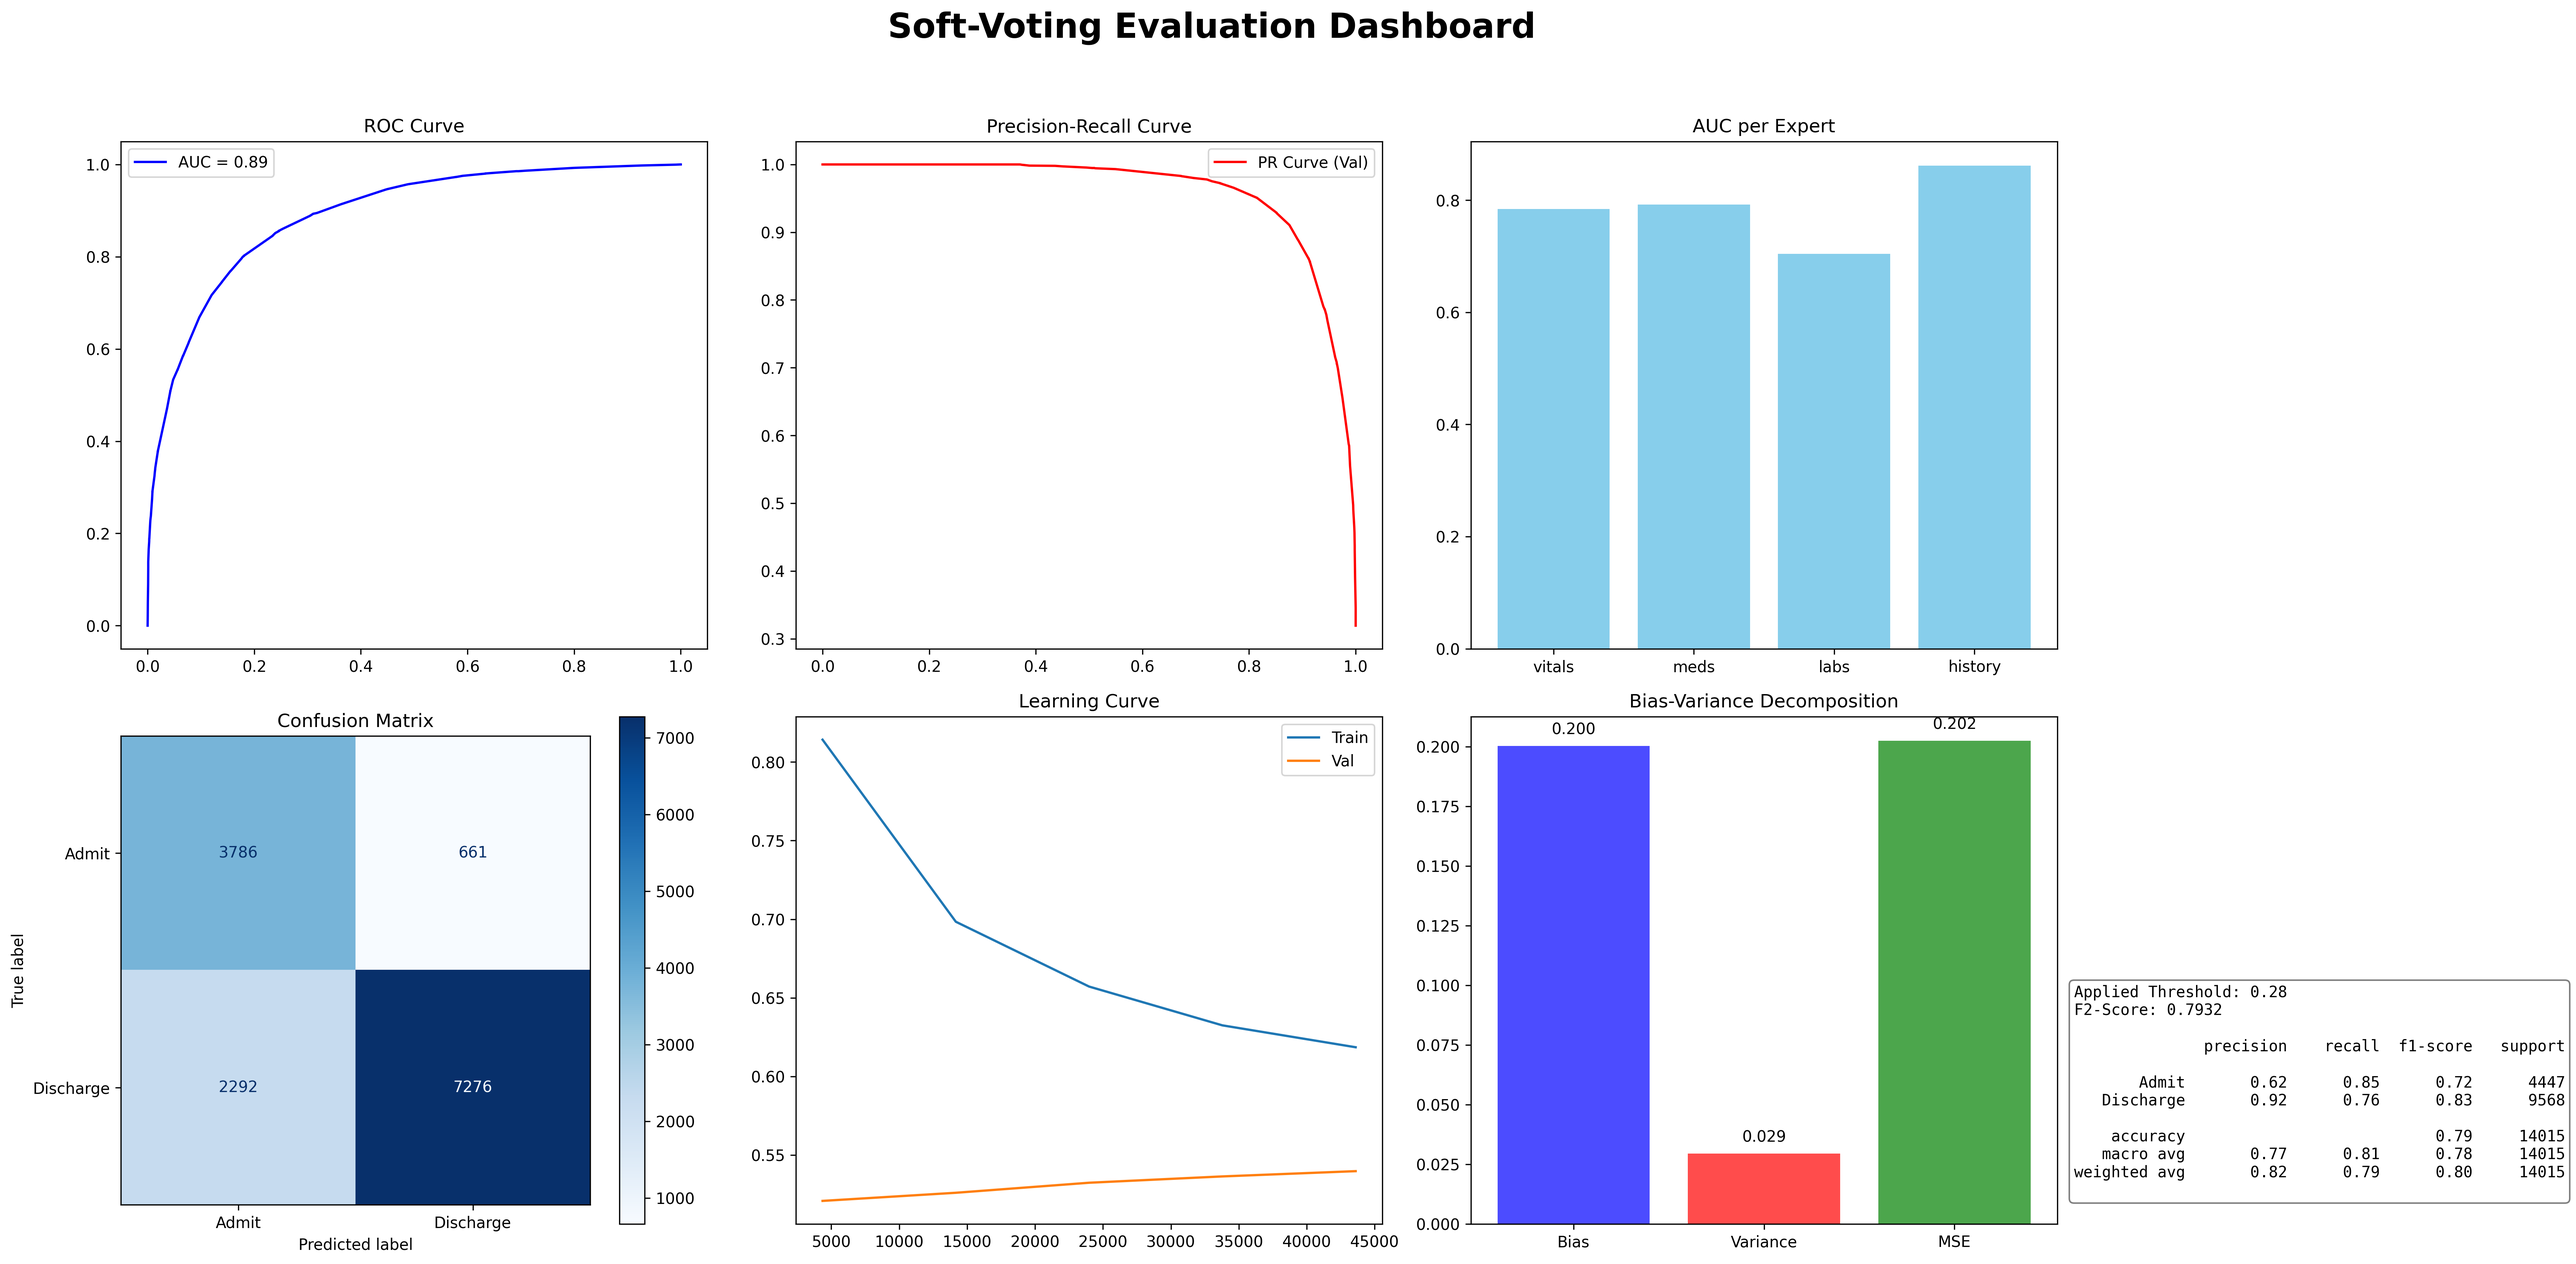
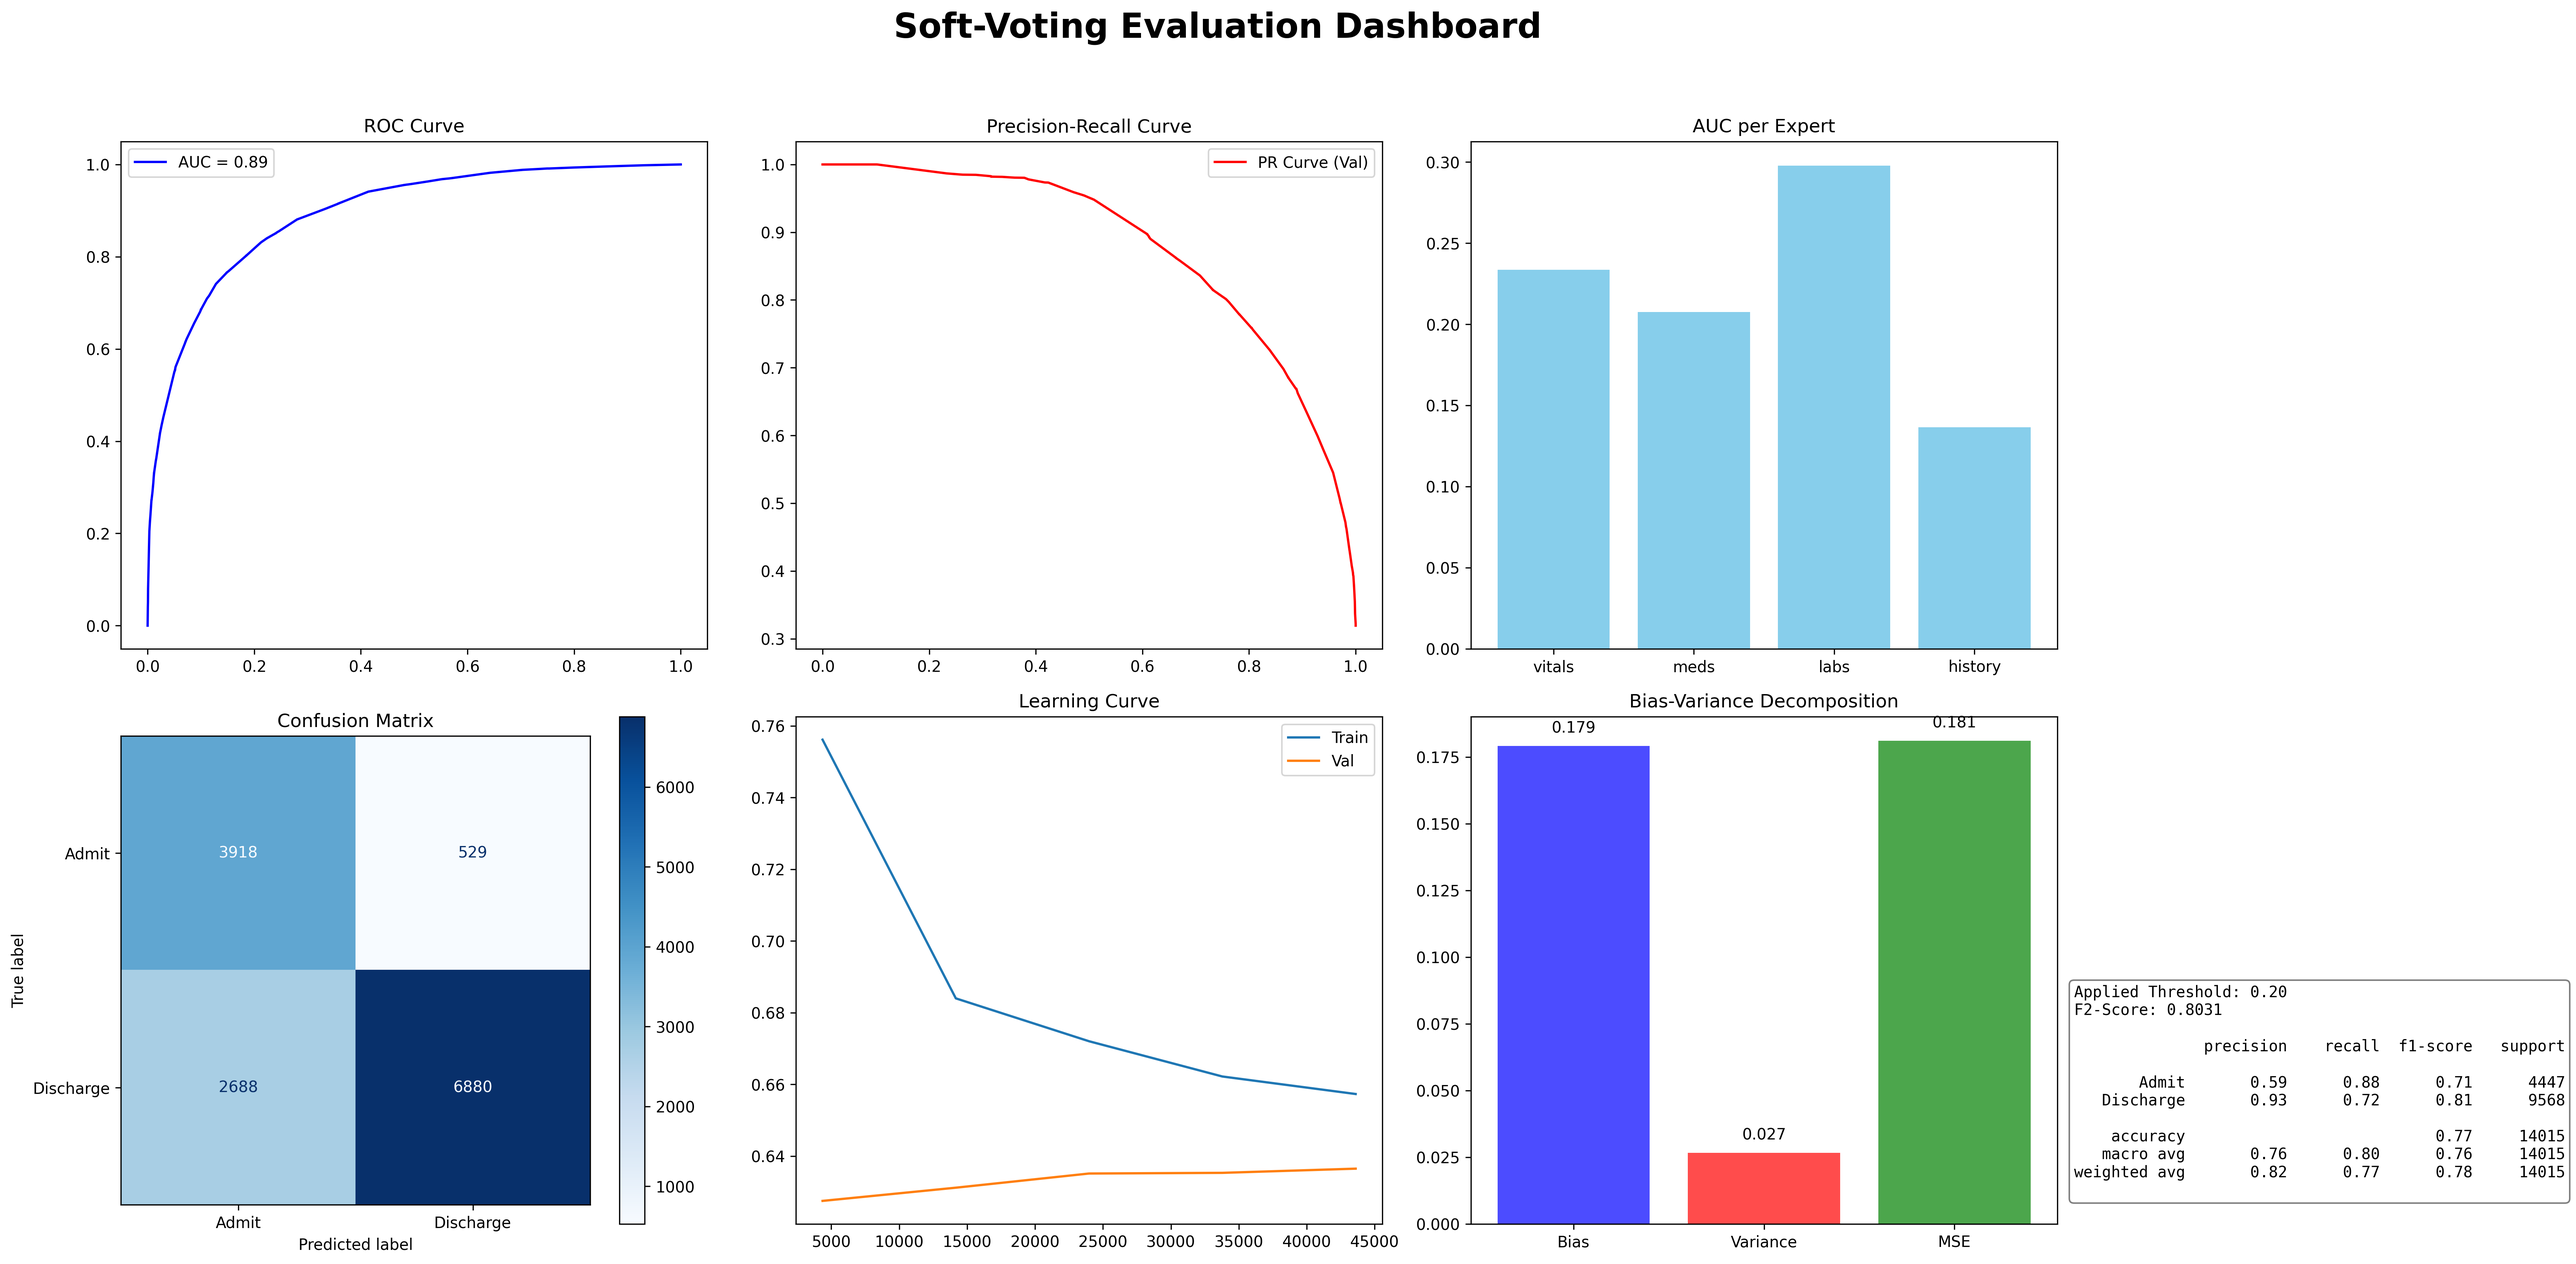
Refactor soft voting classifier pipeline and update Optuna scoring to Average Precision

diff --git a/scripts/triage_soft_voting.py b/scripts/triage_soft_voting.py
@@ -6,7 +6,7 @@ import joblib
 from sklearn.compose import ColumnTransformer
 from sklearn.feature_selection import VarianceThreshold
 from sklearn.ensemble import RandomForestClassifier
-from sklearn.preprocessing import LabelEncoder, StandardScaler
+from sklearn.preprocessing import LabelEncoder, StandardScaler, OneHotEncoder
 from sklearn.linear_model import LogisticRegression
 from sklearn.metrics import precision_score, recall_score
 from sklearn.calibration import CalibratedClassifierCV
@@ -19,7 +19,7 @@ from sklearn.metrics import (roc_curve, auc, precision_recall_curve, fbeta_score
                              ConfusionMatrixDisplay)
 from catboost import CatBoostClassifier
 from mlxtend.evaluate import bias_variance_decomp
-
+from sklearn.impute import SimpleImputer
 
 # I reduced the dataset to 40% of the original size and saved it as 'subset.csv'
 
@@ -31,36 +31,64 @@ df = pd.read_csv('data/subset.csv')
 X = df.drop('disposition', axis=1) 
 y = df['disposition']
 
-
 X_train_raw, X_temp, y_train_raw, y_temp = train_test_split(X, y, test_size=0.30, random_state=42)
 X_val_raw, X_test_raw, y_val_raw, y_test_raw = train_test_split(X_temp, y_temp, test_size=0.50, random_state=42)
 
+
 # Then i transformed my target value into 0/1 where 0 is "Admit" and 1 is "Discharge"
+
 label_enc = LabelEncoder()
 y_train = label_enc.fit_transform(y_train_raw)
 y_val = label_enc.transform(y_val_raw)
 y_test = label_enc.transform(y_test_raw)
 
-# Also i transformed every feature into numbers - Handling categorical columns properly after split
-X_train_numeric = pd.get_dummies(X_train_raw)
-X_val_numeric = pd.get_dummies(X_val_raw)
-X_test_numeric = pd.get_dummies(X_test_raw)
-# Ensure both sets have the same columns after get_dummies
-X_val_numeric = X_val_numeric.reindex(columns=X_train_numeric.columns, fill_value=0)
-X_test_numeric = X_test_numeric.reindex(columns=X_train_numeric.columns, fill_value=0)
+# Setting up the preprocessing pipelines for numeric and categorical features
+numeric_cols = X_train_raw.select_dtypes(include=['int64', 'float64']).columns.tolist()
+categorical_cols = X_train_raw.select_dtypes(include=['object', 'category']).columns.tolist()
 
-# Handled missing values using median imputation based only on training data
-train_median = X_train_numeric.median()
-X_train_imputed = X_train_numeric.fillna(train_median)
-X_val_imputed = X_val_numeric.fillna(train_median)
-X_test_imputed = X_test_numeric.fillna(train_median)
+numeric_transformer = Pipeline(steps=[
+    ('imputer', SimpleImputer(strategy='median'))
+])
+
+categorical_transformer = Pipeline(steps=[
+    ('imputer', SimpleImputer(strategy='most_frequent')), 
+    ('onehot', OneHotEncoder(handle_unknown='ignore', sparse_output=False))
+])
+
+preprocessor = ColumnTransformer(transformers=[
+    ('num', numeric_transformer, numeric_cols),
+    ('cat', categorical_transformer, categorical_cols)
+], verbose_feature_names_out=False)
+
+# Change the output from array to pandas dataframe
+preprocessor.set_output(transform="pandas")
+
+
+preprocessor.fit(X_train_raw)
+
+# Transform the datasets
+X_train_processed_arr = preprocessor.transform(X_train_raw)
+X_val_processed_arr = preprocessor.transform(X_val_raw)
+X_test_processed_arr = preprocessor.transform(X_test_raw)
+
+# Get feature names after transformation
+cat_names = preprocessor.named_transformers_['cat']['onehot'].get_feature_names_out(categorical_cols)
+all_feature_names = numeric_cols + list(cat_names)
+
+# Convert the processed arrays back to DataFrames with appropriate column names
+X_train_processed = pd.DataFrame(X_train_processed_arr, columns=all_feature_names, index=X_train_raw.index)
+X_val_processed = pd.DataFrame(X_val_processed_arr, columns=all_feature_names, index=X_val_raw.index)
+X_test_processed = pd.DataFrame(X_test_processed_arr, columns=all_feature_names, index=X_test_raw.index)
 
 # Feature Selection: Apply Variance Threshold
 selector = VarianceThreshold(threshold=0.01)
-selector.fit(X_train_imputed)
-X_train_sel = pd.DataFrame(selector.transform(X_train_imputed), columns=X_train_numeric.columns[selector.get_support()])
-X_val_sel = pd.DataFrame(selector.transform(X_val_imputed), columns=X_train_numeric.columns[selector.get_support()])
-X_test_sel = pd.DataFrame(selector.transform(X_test_imputed), columns=X_train_numeric.columns[selector.get_support()])
+selector.fit(X_train_processed)
+
+# Get the columns that passed the variance threshold
+selected_cols = X_train_processed.columns[selector.get_support()]
+X_train_sel = X_train_processed[selected_cols]
+X_val_sel = X_val_processed[selected_cols]
+X_test_sel = X_test_processed[selected_cols]
 
 # Performed a Random forest in order to get the top 150 features
 rf_selector = RandomForestClassifier(n_estimators=150, random_state=42, n_jobs=-1)
@@ -86,22 +114,22 @@ meds_idx = get_indices(X_train, meds_top)
 labs_idx = get_indices(X_train, labs_top)
 history_idx = get_indices(X_train, history_top)
 
-
 def custom_admit_scorer(y_true, y_pred):
     prec = precision_score(y_true, y_pred, pos_label=0, zero_division=0)
-    if prec < 0.45:
-        return fbeta_score(y_true, y_pred, beta=2, pos_label=0) * ((prec / 0.45) ** 2)
+    if prec < 0.35:
+        return fbeta_score(y_true, y_pred, beta=2, pos_label=0) * ((prec / 0.35) ** 2)
     return fbeta_score(y_true, y_pred, beta=2, pos_label=0)
 
 f2_scorer = make_scorer(custom_admit_scorer)
 
 # Optuna objective function
 def objective(trial):
-    lgb_lr = trial.suggest_float('lgb_lr', 0.03, 0.08)
-    lgb_reg = trial.suggest_float('lgb_reg', 5.0, 15.0)
-    log_c = trial.suggest_float('log_c', 0.5, 5.0)
-    cat_depth = trial.suggest_int('cat_depth', 5, 9) 
-    cat_lr = trial.suggest_float('cat_lr', 0.03, 0.08)
+    lgb_lr = trial.suggest_float('lgb_lr', 0.01, 0.1,log=True)
+    lgb_reg = trial.suggest_float('lgb_reg', 1.0, 20.0,log=True)
+    log_c = trial.suggest_float('log_c', 0.001, 100.0,log=True)
+    cat_depth = trial.suggest_int('cat_depth', 4, 8) 
+    cat_lr = trial.suggest_float('cat_lr', 0.01, 0.1,log=True)
+    
 
     base_learners_trial = [
         ('vitals_expert', Pipeline([
@@ -122,40 +150,41 @@ def objective(trial):
             ('clf', CatBoostClassifier(iterations=250, verbose=0, learning_rate=cat_lr, depth=cat_depth, thread_count=-1))
         ]))
     ]
-    
+
     Voting_model = VotingClassifier(estimators=base_learners_trial, voting='soft')
-    score = cross_val_score(Voting_model, X_train.values, y_train, cv=3, scoring=f2_scorer, n_jobs=-1)
+    score = cross_val_score(Voting_model, X_train.values, y_train, cv=3, scoring='average_precision', n_jobs=-1)
     return score.mean()
 
 # Bayesian Optimization
 sampler = optuna.samplers.TPESampler(seed=42)
 study = optuna.create_study(direction='maximize', sampler=sampler)
-study.optimize(objective, n_trials=15)
+study.optimize(objective, n_trials=20)
 
 # Final model with best parameters
 bp = study.best_params
 base_learners_final = [
     ('vitals_expert', Pipeline([
         ('sel', ColumnTransformer([('keep', 'passthrough', vitals_idx)], remainder='drop')),
-        ('clf', lgb.LGBMClassifier(n_estimators=200, learning_rate=bp['lgb_lr'], reg_lambda=bp['lgb_reg'], random_state=42, n_jobs=-1, verbosity=-1)) 
+        ('clf', lgb.LGBMClassifier(n_estimators=200, learning_rate=bp['lgb_lr'], reg_lambda=bp['lgb_reg'], class_weight='balanced',random_state=42, n_jobs=-1, verbosity=-1)) 
     ])),  
     ('meds_expert', Pipeline([
         ('sel', ColumnTransformer([('keep', 'passthrough', meds_idx)], remainder='drop')),
         ('scaler', StandardScaler()),
-        ('clf', LogisticRegression(max_iter=500, C=bp['log_c'], random_state=42, n_jobs=-1))
+        ('clf', LogisticRegression(max_iter=500, C=bp['log_c'],class_weight='balanced', random_state=42, n_jobs=-1))
     ])), 
     ('labs_expert', Pipeline([
         ('sel', ColumnTransformer([('keep', 'passthrough', labs_idx)], remainder='drop')),
-        ('clf', CatBoostClassifier(iterations=250, verbose=0, learning_rate=bp['cat_lr'], depth=bp['cat_depth'], thread_count=-1))
+        ('clf', CatBoostClassifier(iterations=250, verbose=0, learning_rate=bp['cat_lr'], depth=bp['cat_depth'],thread_count=-1,random_seed=42))
     ])), 
     ('history_expert', Pipeline([
         ('sel', ColumnTransformer([('keep', 'passthrough', history_idx)], remainder='drop')),
-        ('clf', CatBoostClassifier(iterations=250, verbose=0, learning_rate=bp['cat_lr'], depth=bp['cat_depth'], thread_count=-1))
+        ('clf', CatBoostClassifier(iterations=250, verbose=0, learning_rate=bp['cat_lr'], depth=bp['cat_depth'], thread_count=-1,random_seed=42))
     ]))
 ]
 
 final_model = VotingClassifier(estimators=base_learners_final, voting='soft')
 final_model.fit(X_train.values, y_train)
+
 
 calibrated_model = CalibratedClassifierCV(final_model, method='isotonic', cv=None, ensemble=False)
 calibrated_model.fit(X_val.values, y_val)
@@ -171,7 +200,7 @@ best_thresh, best_f2 = 0.5, 0
 for t in thresholds_to_try:
     preds = np.where(y_prob_val_admit > t, 0, 1)
     prec = precision_score(y_val, preds, pos_label=0, zero_division=0)
-    if prec < 0.45:
+    if prec < 0.35:
         continue
     score = fbeta_score(y_val, preds, beta=2, pos_label=0)
     if score > best_f2:
@@ -181,6 +210,7 @@ final_threshold = best_thresh
 
 # Final predictions using the adjusted threshold
 y_pred_custom = np.where(y_prob_test_admit > final_threshold, 0, 1)
+
 
 # Metrics for reporting
 f2_admit = fbeta_score(y_test, y_pred_custom, beta=2, pos_label=0)
@@ -197,21 +227,23 @@ val_mean = np.mean(val_scores, axis=1)
 
 # Dashboard Setup 
 fig, axes = plt.subplots(2, 3, figsize=(22, 12))
-fig.suptitle('Soft-Voting Evaluation Dashboard ', fontsize=22, fontweight='bold', y=0.98)
+fig.suptitle('Soft-Voting Evaluation Dashboard', fontsize=22, fontweight='bold', y=0.98)
 
 # ROC Curve
 fpr, tpr, _ = roc_curve(y_test, y_prob_test_admit, pos_label=0)
 axes[0, 0].plot(fpr, tpr, color='blue', label=f'AUC = {auc(fpr, tpr):.2f}')
-axes[0, 0].set_title('ROC Curve'); axes[0, 0].legend()
+axes[0, 0].set_title('ROC Curve')
+axes[0, 0].legend()
 
 # PR Curve
 precision_tr, recall_tr, thresholds_tr = precision_recall_curve(y_val, y_prob_val_admit, pos_label=0)
 axes[0, 1].plot(recall_tr, precision_tr, color='red', label='PR Curve (Val)')
-axes[0, 1].set_title('Precision-Recall Curve'); axes[0, 1].legend()
+axes[0, 1].set_title('Precision-Recall Curve')
+axes[0, 1].legend()
 
-# Expert Performance
+# AUC per Expert
 expert_names = [name.replace('_expert', '') for name, _ in final_model.estimators]
-expert_aucs = [roc_auc_score(y_test, final_model.estimators_[i].predict_proba(X_test.values)[:, 1]) for i in range(len(expert_names))]
+expert_aucs = [roc_auc_score(y_test, final_model.estimators_[i].predict_proba(X_test.values)[:, 0]) for i in range(len(expert_names))]
 axes[0, 2].bar(expert_names, expert_aucs, color='skyblue')
 axes[0, 2].set_title('AUC per Expert')
 
@@ -220,10 +252,12 @@ ConfusionMatrixDisplay(confusion_matrix=cm, display_labels=label_enc.classes_).p
 axes[1, 0].set_title('Confusion Matrix')
 
 # Learning Curve
-axes[1, 1].plot(train_sizes, train_mean, label='Train'); axes[1, 1].plot(train_sizes, val_mean, label='Val')
-axes[1, 1].set_title('Learning Curve'); axes[1, 1].legend()
+axes[1, 1].plot(train_sizes, train_mean, label='Train')
+axes[1, 1].plot(train_sizes, val_mean, label='Val')
+axes[1, 1].set_title('Learning Curve')
+axes[1, 1].legend()
 
-# Bias-Variance Bar Chart
+# Bias Varinace Bar Chart
 sample_size = min(5000, len(X_train))
 indices = np.random.choice(len(X_train), sample_size, replace=False)
 mse, bias, var = bias_variance_decomp(
@@ -234,12 +268,13 @@ mse, bias, var = bias_variance_decomp(
 )
 axes[1, 2].bar(['Bias', 'Variance', 'MSE'], [bias, var, mse], color=['blue', 'red', 'green'], alpha=0.7)
 axes[1, 2].set_title('Bias-Variance Decomposition')
-for i, v in enumerate([bias, var, mse]): axes[1, 2].text(i, v + 0.005, f'{v:.3f}', ha='center')
+for i, v in enumerate([bias, var, mse]): 
+    axes[1, 2].text(i, v + 0.005, f'{v:.3f}', ha='center')
 
 model_artifacts = {
+    'preprocessor': preprocessor,
     'model': calibrated_model,
     'label_encoder': label_enc,
-    'train_median': train_median,
     'top_features': top_features,
     'final_threshold': final_threshold
 }
